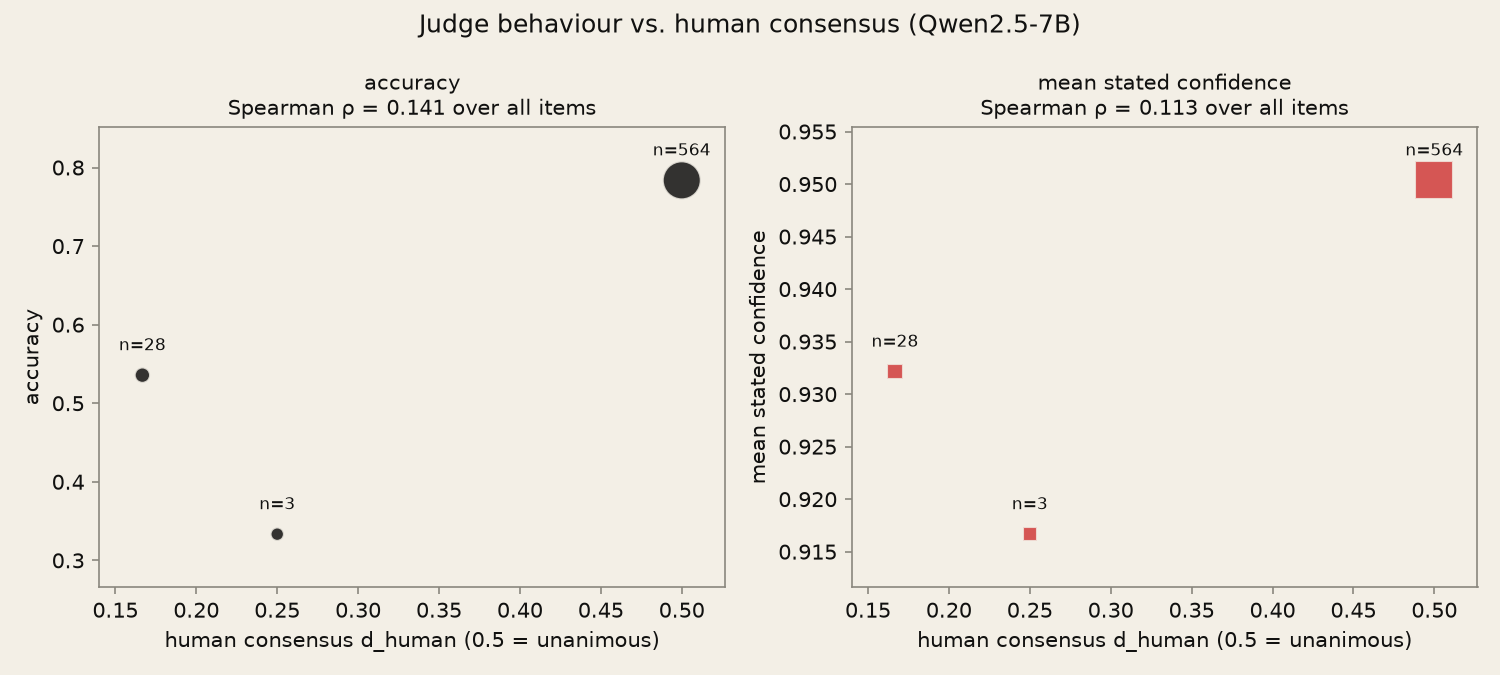
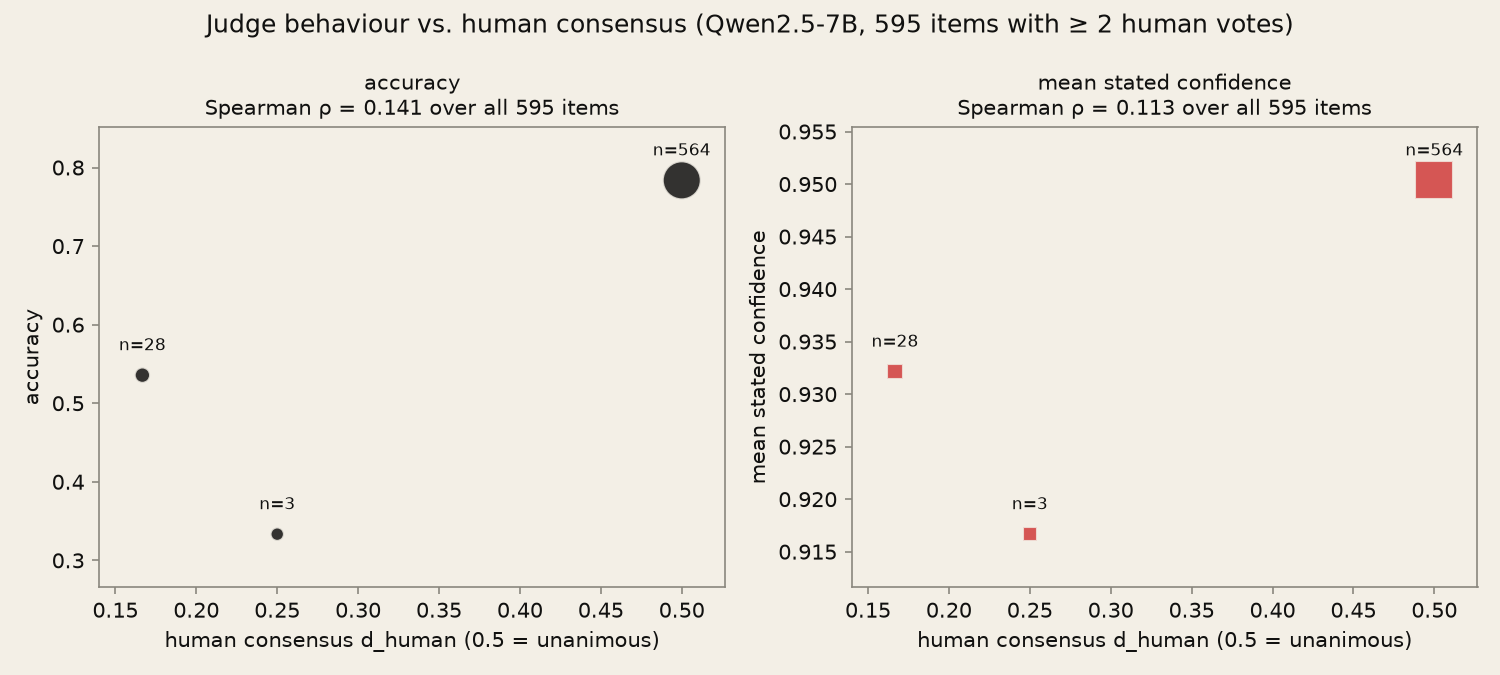
figures update

Changed region(s): [[0.1227, 0.0, 0.8587, 0.0622], [0.1227, 0.1244, 0.4293, 0.1867], [0.644, 0.1244, 0.92, 0.1867]]

diff --git a/src/plots.py b/src/plots.py
@@ -550,9 +550,10 @@ def plot_human_disagreement(
         ax.set_ylim(bin_y.min() - y_pad, bin_y.max() + y_pad)
         ax.set_xlabel("human consensus d_human (0.5 = unanimous)")
         ax.set_ylabel(ylabel)
-        ax.set_title(f"{ylabel}\nSpearman ρ = {rho:.3f} over all items", fontsize=10)
+        ax.set_title(f"{ylabel}\nSpearman ρ = {rho:.3f} over all {len(d_human_arr)} items", fontsize=10)
 
-    fig.suptitle(f"Judge behaviour vs. human consensus ({judge_name(model_slug)})")
+    fig.suptitle(f"Judge behaviour vs. human consensus ({judge_name(model_slug)}, "
+                 f"{len(d_human_arr)} items with ≥ 2 human votes)")
     return _save(fig, f"human_disagreement_{model_slug}.png")
 
 
@@ -715,9 +716,11 @@ def plot_confidence_gap(panels: list[dict], title: str, filename: str) -> Figure
                      "confidence when flipped − when stable\n(95% cluster-bootstrap CI)", colors=colors, hollow=hollow)
         ax.set_title(panel["title"])
     fig.suptitle(title)
-    fig.text(0.01, 0.01, "† built from the same two orders that define a flip, so a large gap is expected by construction",
+    fig.text(0.01, 0.01, "blue = confidence drops where the verdict flipped (the signal flags those errors); "
+             "red = it rises; hollow = CI includes 0\n"
+             "† built from the same two orders that define a flip, so a large gap is expected by construction",
              fontsize=7, color=_theme.note)
-    return _save(fig, filename, rect=(0, 0.04, 1, 1))
+    return _save(fig, filename, rect=(0, 0.07, 1, 1))
 
 
 @_dark_variant
@@ -879,12 +882,17 @@ def plot_h4_interaction(
     predicted_curves: list[np.ndarray],
     log_odds_curves: list[np.ndarray],
     model_slug: str,
+    n_items: list[int] | None = None,
 ) -> Figure:
     """H4: predicted P(correct) vs the predictor's OOF score, one curve
     per d_human level. Left: probability scale, with a rug of the real
     scores. Right: log-odds, where the model is linear and the interaction
     is simply the slope difference - on the probability scale, sigmoid
     saturation hides it where most real scores sit.
+
+    The curves are fitted lines, drawn across the whole score range even
+    where a level has few items, so the legend carries each level's item
+    count (`n_items`) and the title asks rather than asserts.
 
     Saved to results/figures/h4_interaction_{model_slug}.png.
     """
@@ -894,11 +902,15 @@ def plot_h4_interaction(
     ramp = LinearSegmentedColormap.from_list("ramp", [_theme.ramp_low, _theme.ink])
     colors = [ramp(i / max(len(d_human_values) - 1, 1)) for i in range(len(d_human_values))]
     markers = ["o", "s", "^", "D"]
+    labels = [
+        f"d_human = {value:.3f}" + (f" (n = {n_items[i]})" if n_items is not None else "")
+        for i, value in enumerate(d_human_values)
+    ]
 
     ax = axes[0]
-    for i, (color, d_human_value, curve) in enumerate(zip(colors, d_human_values, predicted_curves)):
+    for i, (color, label, curve) in enumerate(zip(colors, labels, predicted_curves)):
         ax.plot(oof_score_grid, curve, color=color, linewidth=2.5, marker=markers[i % len(markers)], markevery=0.1,
-                label=f"d_human = {d_human_value:.3f}")
+                label=label)
     # Rug below the [0, 1] axis so it never overlaps the curves.
     ax.plot(oof_score, np.full_like(oof_score, -0.04), marker="|", linestyle="", color=_theme.ink, alpha=0.3,
             markersize=8, clip_on=False)
@@ -910,15 +922,16 @@ def plot_h4_interaction(
     ax.legend(loc="upper left", fontsize=9, title="human consensus (0.5 = unanimous)")
 
     ax = axes[1]
-    for i, (color, d_human_value, curve) in enumerate(zip(colors, d_human_values, log_odds_curves)):
+    for i, (color, label, curve) in enumerate(zip(colors, labels, log_odds_curves)):
         ax.plot(oof_score_grid, curve, color=color, linewidth=2.5, marker=markers[i % len(markers)], markevery=0.1,
-                label=f"d_human = {d_human_value:.3f}")
+                label=label)
     ax.set_xlim(0, 1)
     ax.set_xlabel("meta-model's out-of-fold P(correct)")
     ax.set_ylabel("log-odds of correct")
     ax.set_title("Log-odds scale (slopes undistorted)")
 
-    fig.suptitle("The meta-model's edge grows with human consensus (H4)")
+    fig.suptitle("Is the meta-model's edge larger where humans agreed? (H4, fitted lines)\n"
+                 "The split-vote lines are fitted from few items; read the interaction with its CI, not the lines")
     return _save(fig, f"h4_interaction_{model_slug}.png")
 
 
@@ -1059,8 +1072,13 @@ def plot_rq4_coefficients(
                  df["ci_high"].to_numpy(), "coefficient on standardized feature (> 0 = judge more likely right)",
                  colors=colors, markers=markers)
     ax.legend(handles=_family_legend_handles(sorted(df["family"].unique())), loc="lower right", fontsize=8)
-    ax.set_title(f"Which features predict judge error?\n{len(df)} of {len(features)} coefficients clear zero "
-                 f"(logistic regression, all tiers)", fontsize=10)
+    title = (f"Which features predict judge error?\n{len(df)} of {len(features)} coefficients clear zero "
+             f"(logistic regression, all tiers)")
+    # conf_ens = 1 - ens_entropy_total exactly, so the model splits one effect
+    # into two equal-and-opposite coefficients; say so wherever both appear.
+    if {"conf_ens", "ens_entropy_total"} <= set(df["feature"]):
+        title += "\nconf_ens and ens_entropy_total are one signal (conf_ens = 1 − total entropy), counted twice"
+    ax.set_title(title, fontsize=10)
     return _save(fig, f"rq4_coefficients_{model_slug}.png")
 
 
@@ -1250,8 +1268,10 @@ def plot_judge_comparison(panels: list[dict], filename: str = "judge_comparison.
         ax.set_title(panel["title"], fontsize=10)
     for ax in list(axes.flat)[len(panels):]:
         ax.set_visible(False)
-    fig.suptitle("Three judges, same items, same tests "
-                 "(95% cluster-bootstrap CIs; hollow = interval includes the dotted reference)")
+    # Each judge is scored on its own population (exclusions and splits differ),
+    # so the title must not suggest a like-for-like comparison.
+    fig.suptitle("Three judges, the same tests, each on its own items: read side by side, not as a ranking\n"
+                 "(95% cluster-bootstrap CIs per judge; hollow = interval includes the dotted reference)")
     return _save(fig, filename)
 
 
@@ -1261,6 +1281,10 @@ AUTO_ACCEPT_FIGURE_SIGNALS = {
     "kev-8b": ["conf_kev", "conf_kev_bpe_prob"],
     "auto-j-13b": ["conf_sc_autoj", "conf_sc_bpe_autoj_greedy_prob"],
 }
+
+# Legend names that need more than signal_label() gives: the meta-model reads
+# every signal and is scored on RQ4's smaller population, unlike the rest.
+AUTO_ACCEPT_FIGURE_LABELS = {"p_correct_bayesian": "Bayesian meta-model (all signals, 10 calls, N = 1,819)"}
 
 
 @_dark_variant
@@ -1288,7 +1312,8 @@ def plot_auto_accept(curves: pd.DataFrame, threshold_marker: float = 0.9) -> Fig
                 df = curves[(curves["judge"] == judge) & (curves["signal"] == signal) & (curves["condition"] == condition)]
                 if df.empty:
                     continue
-                label = signal_label(signal) + ("" if condition == "clean" else " (padded)")
+                name = AUTO_ACCEPT_FIGURE_LABELS.get(signal, signal_label(signal))
+                label = name + ("" if condition == "clean" else " (padded)")
                 axes[0][col].plot(df["threshold"], df["slip_through"], color=color, linestyle=linestyle, label=label)
                 axes[1][col].plot(df["threshold"], df["accepted_share"], color=color, linestyle=linestyle)
         for row in (0, 1):
@@ -1302,7 +1327,8 @@ def plot_auto_accept(curves: pd.DataFrame, threshold_marker: float = 0.9) -> Fig
         axes[1][col].set_xlabel("auto-accept when confidence ≥")
     axes[0][0].set_ylabel("share of WRONG verdicts accepted unreviewed")
     axes[1][0].set_ylabel("share of ALL verdicts accepted")
-    fig.suptitle("If you auto-accept confident verdicts, how many errors slip through - and how much do you accept?")
+    fig.suptitle("If you auto-accept confident verdicts, how many errors slip through - and how much do you accept?\n"
+                 "(post-hoc and descriptive; thresholds are illustrative, not tuned; auto-j: answered calls only)")
     return _save(fig, "auto_accept.png")
 
 

diff --git a/analysis/rq4.py b/analysis/rq4.py
@@ -326,7 +326,11 @@ def compute_h4_interaction_curves(predictions_df: pd.DataFrame, n_grid: int = 10
     it where most data sits (high oof_score).
     """
     model = fit_h4_interaction_model(predictions_df)
-    d_human_values = sorted(predictions_df["d_human"].round(4).unique())
+    rounded = predictions_df["d_human"].round(4)
+    d_human_values = sorted(rounded.unique())
+    # How many items sit at each level, so the figure shows how little data
+    # the split-vote lines rest on.
+    n_items = [int((rounded == value).sum()) for value in d_human_values]
     oof_score_grid = np.linspace(0, 1, n_grid)
 
     predicted_curves = []
@@ -340,6 +344,7 @@ def compute_h4_interaction_curves(predictions_df: pd.DataFrame, n_grid: int = 10
         "oof_score": predictions_df["oof_score"].to_numpy(),
         "oof_score_grid": oof_score_grid,
         "d_human_values": d_human_values,
+        "n_items": n_items,
         "predicted_curves": predicted_curves,
         "log_odds_curves": log_odds_curves,
     }
@@ -358,7 +363,7 @@ def main_h4(config_path: str) -> None:
         f"[{result['ci_low']:.4f}, {result['ci_high']:.4f}]"
     )
     if result["ci_low"] > 0:
-        print("CI excludes 0 (positive): the predictor's edge grows with human consensus - supports H4.")
+        print("CI excludes 0 (positive): the predictor's edge is larger where humans agreed - supports H4.")
     elif result["ci_high"] < 0:
         print("CI excludes 0 (negative): the predictor's edge SHRINKS with human consensus - contradicts H4.")
     else:
@@ -374,6 +379,7 @@ def main_h4(config_path: str) -> None:
             oof_score=curves["oof_score"],
             oof_score_grid=curves["oof_score_grid"],
             d_human_values=curves["d_human_values"],
+            n_items=curves["n_items"],
             predicted_curves=curves["predicted_curves"],
             log_odds_curves=curves["log_odds_curves"],
             model_slug=config.model_slug,
@@ -1130,6 +1136,7 @@ def main_bayesian_comparison(config_path: str) -> None:
             flagged=np.array([fold_diag["flagged"] for fold_diag in all_diag]),
             n_divergences=np.array([fold_diag["n_divergences"] for fold_diag in all_diag]),
             model_slug=config.model_slug,
+            title=f"Bayesian model convergence ({judge_name(config.model_slug)}, all-signals model)",
             dark=dark,
         )
 

diff --git a/analysis/rq7.py b/analysis/rq7.py
@@ -238,7 +238,10 @@ def main_verbosity(config_path: str) -> None:
     for dark in (False, True):
         plot_verbosity_deltas(
             [verbosity_panel(t, f"turn {turn}") for turn, t in table.groupby("turn", sort=True)],
-            title="Padding attack on auto-j-13b, among the calls it answered",
+            title=("Padding attack on auto-j-13b, among the calls it answered only "
+                   "(no-verdict calls, up to 39.8% of padded turn-2, are excluded;\n"
+                   "over all padded items the error-detection change depends on how they are scored: "
+                   "see the survivorship bounds)"),
             filename=f"rq7_verbosity_deltas_{config.model_slug}.png",
             dark=dark,
         )

diff --git a/REPORT.md b/REPORT.md
@@ -904,12 +904,14 @@ in-sample, which would bias the interaction before the CI method even
 matters); fit `correct ~ oof_score * d_human`; cluster-bootstrap (B=2000,
 refitting each resample) on the interaction coefficient.*
 
-**Result: interaction coefficient +2.3752 [1.6849, 3.0739] — the CI clears
-zero comfortably, H4 holds.** The predictor's edge genuinely grows with
-human consensus: judge error is learnable where humans agree (epistemic,
-reducible) and much less so where they don't (aleatoric, irreducible) — a
-clean positive result, in real contrast to the tier ablation's null finding
-above. `h4_interaction_qwen2.5_7b_instruct.png` has two panels, probability
+**Result: interaction coefficient +2.3752 [1.6849, 3.0739]. The CI clears
+zero, so H4 is supported.** The predictor ranks errors better where the humans
+agreed than where they split. That is consistent with the reading that the errors
+no signal catches sit where the label itself is uncertain, but it does not prove
+it. The contrast rests on 564 unanimous items against 31 split-vote items, from
+19 questions (below). The cluster bootstrap carries that thinness into the
+interval, and the interval still clears zero. It is a positive result,
+unlike the tier ablation's null finding above. `h4_interaction_qwen2.5_7b_instruct.png` has two panels, probability
 and log-odds, because the probability-space panel alone visually undersells
 the effect — sigmoid
 saturation compresses the slope difference exactly where most of the real
@@ -921,9 +923,9 @@ log-odds slope per unit of `d_human`, which runs only from 0.167 to 0.5 here, so
 across the observed range the slope grows by about 0.8. And the observed range is
 thin at one end: of the 595 items, 564 are unanimous (`d_human` = 0.5), 28 sit at
 0.167 and 3 at 0.25 (RQ2's human-disagreement section). The contested end of the
-interaction therefore rests on 31 items from 19 questions, which the cluster-bootstrap interval
-reflects but a reader of the figure, which draws a full line for each value,
-might not.
+interaction therefore rests on 31 items from 19 questions. The cluster-bootstrap
+interval reflects this. The figure draws a full fitted line for each value, so its
+legend gives each line's item count.
 
 ### Transfer test 1 — train on clean, test on verbose
 

diff --git a/REPRODUCE.md b/REPRODUCE.md
@@ -152,3 +152,5 @@ Because the NUTS seeds are fixed, the Bayesian results came out bit-identical on
 **Reruns after D34 (November 2026).** `analysis.vacuum`, `analysis.human_disagreement` and `analysis.rq5 --task distillation` were rerun in place, each exiting with code 0.
 - **What changed:** the vacuum table gained its confidence-gap columns, with the existing values unchanged. Two outputs are new: `multivote_sensitivity_qwen2.5_7b_instruct.csv` and the two-call convergence figure.
 - **What stayed the same:** every other tracked output was byte-identical, including all RQ5 tables, and `site/data/` was unchanged.
+- **Figure wording:** titles and legends were brought in line with the report's current stance. Each figure's own task was rerun: `rq4` (`h4`, `calibration`, `bayesian_comparison`), `rq3`, `human_disagreement`, `rq6`/`rq7` (`position_swap`, and `verbosity` for rq7) and `auto_accept`. Only figure files changed; every CSV is byte-identical.
+- **Three-judge figure:** `analysis.compare_judges` was rerun after a title correction. The old title, "same items", wrongly implied the three judges share a population. Only `judge_comparison.png` and its dark copy changed; `judge_comparison.csv` is byte-identical.

diff --git a/README.md b/README.md
@@ -92,9 +92,10 @@ three judges, and it is interactive in section 04 of the site.
      auto-j it adds a small amount on turn 1 (+0.018 [0.003, 0.033], borderline,
      and only when each cross-validation fold is scored separately) and nothing
      detectable on turn 2.
-   - The meta-model's edge does grow where humans agree (H4 interaction +2.38
-     [1.68, 3.07]), so errors are learnable where the ground truth is clear. This
-     rests on the 595 items with at least two votes, only 31 of them split.
+   - The meta-model's edge is larger where humans agreed (H4 interaction +2.38
+     [1.68, 3.07]). That is consistent with errors being learnable where the ground
+     truth is clear, but does not prove it. It rests on the 595 items with at least
+     two votes, only 31 of them with split votes.
 5. **Two calls instead of six, with no detectable loss.** On the two answer-order calls alone, a
    Bayesian meta-model costs a third of the 3-prompt ensemble's 6 calls. Its
    ranking of errors is not detectably worse when each cross-validation fold is
